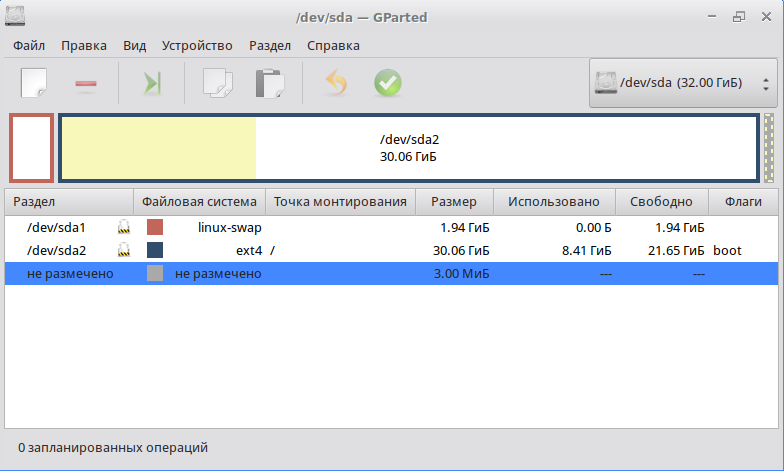
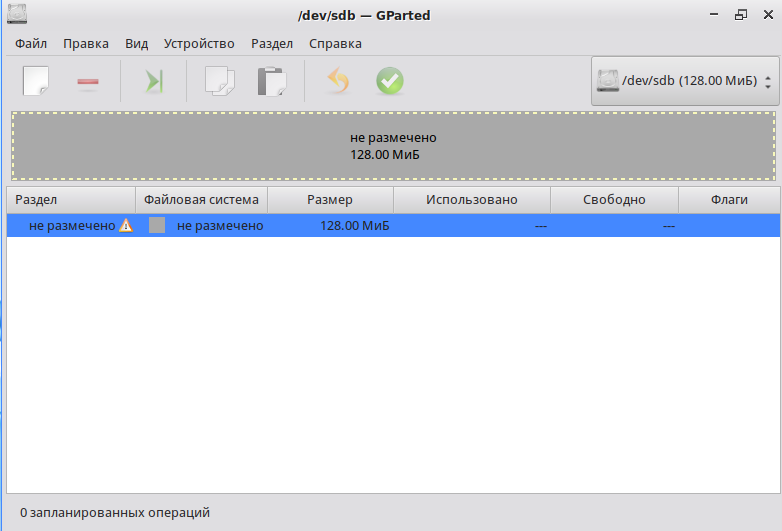
Working on ACOS seminar

diff --git a/workshops/services/SERVICES.md b/workshops/services/SERVICES.md
@@ -26,8 +26,8 @@ by RedHat.
 
 ![5](Pic05.png)
 
-4. Run GParted to see partitions.
+4. Run GParted to create partitions.
 
-       gparted
-       
+       gparted /dev/sdb
+
 ![6](Pic06.png)
